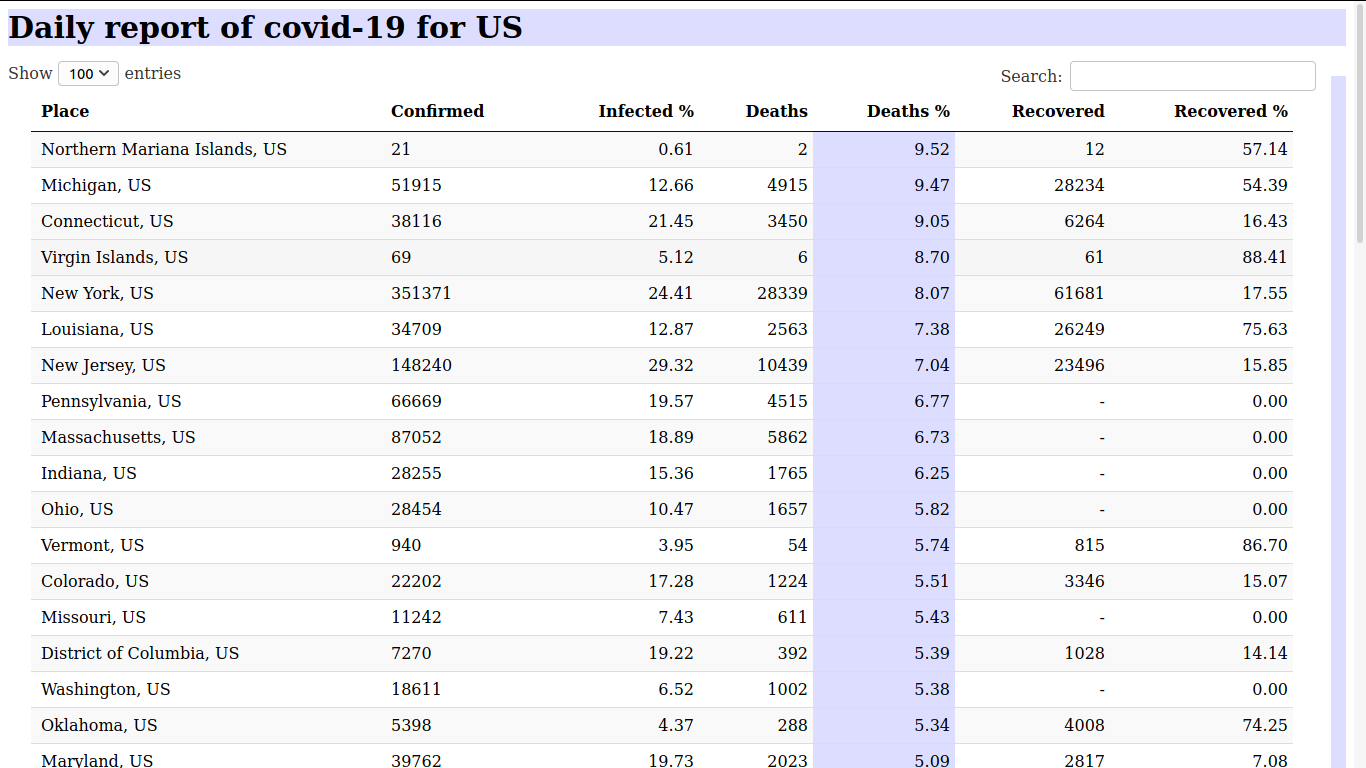
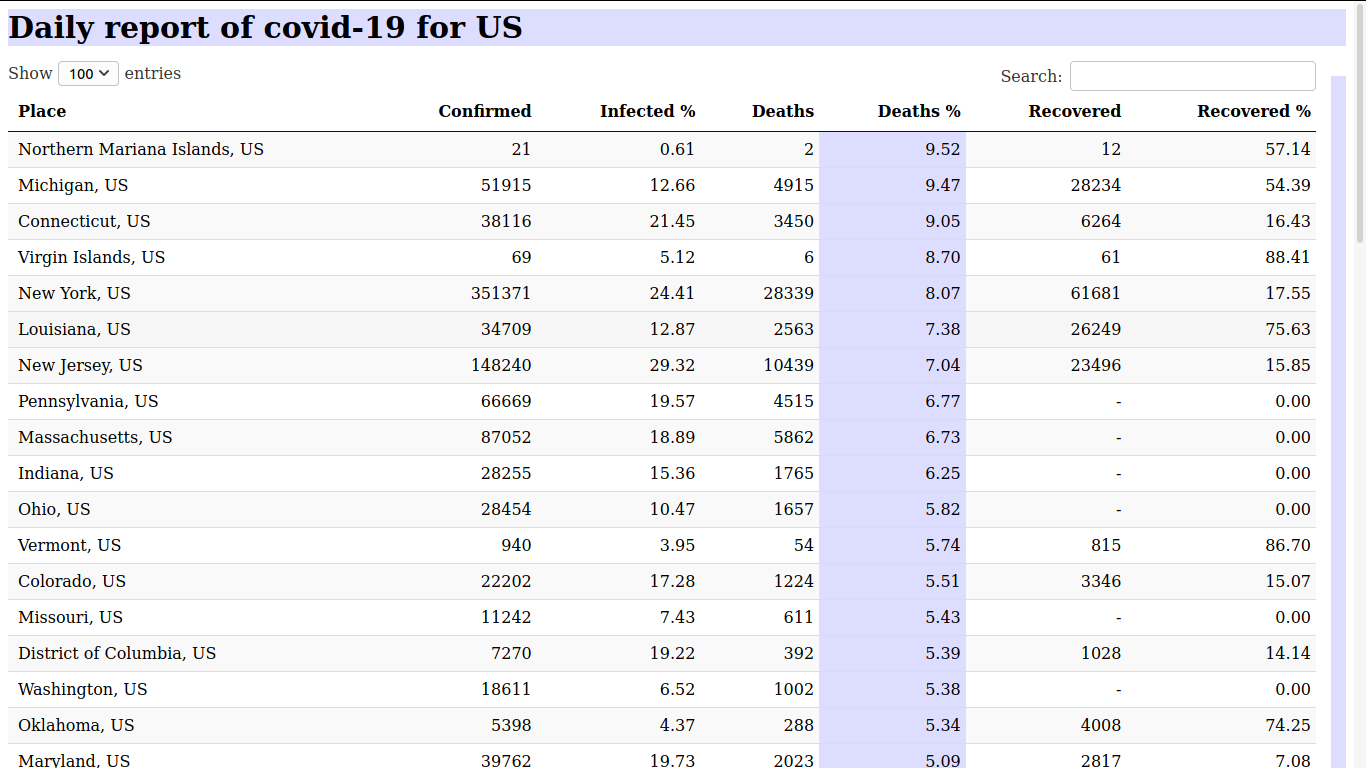
map & css

diff --git a/js/actions.js b/js/actions.js
@@ -2,11 +2,9 @@ function setRow(type, ...a) {
     
     let output = '<tr>';
     
-    if (type === 0) {
-        for (let i=0; i<a.length; i++) { output += '<th class="col'+i+'">'+a[i]+'</th>'; }
-    } else {
-        for (let i=0; i<a.length; i++) { output += '<td class="col'+i+'">'+a[i]+'</td>'; }
-    }
+    a.map(function (x, i) { 
+        output += '<t'+( type ? "d" : "h" )+' class="col'+i+'">'+x+'</th>';
+    });
     
     output += '</tr>';
     

diff --git a/css/styles.css b/css/styles.css
@@ -37,12 +37,7 @@
 th.col0 {
     padding-left: 10px !important;
 }
-.col1 {
-    text-align: left;
-    white-space: nowrap !important;
-    padding-left: 5px !important;
-}
-.col2, .col3, .col4, 
+.col1, .col2, .col3, .col4, 
 .col5, .col6 {
     text-align: right;
     white-space: nowrap !important;
